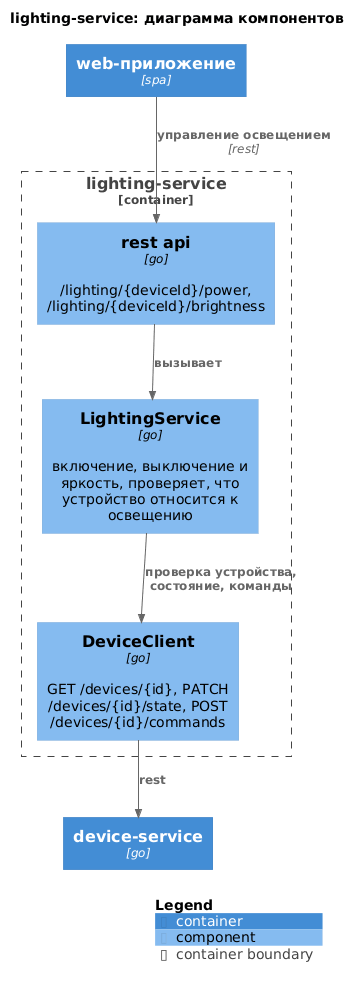
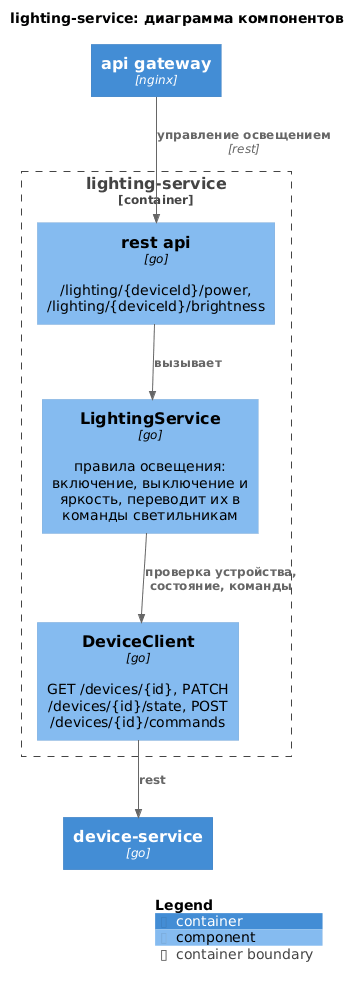
правки

Changed region(s): [[0.1532, 0.4559, 0.6741, 0.5471], [0.1838, 0.0304, 0.7047, 0.1216]]

diff --git a/README.md b/README.md
@@ -27,8 +27,16 @@
 ### 3. Определение доменов и границы контекстов
 
 - as-is: управление отоплением, мониторинг температуры, реестр датчиков, подключение оборудования выполняет специалист вне системы
-- to-be: пользователи и дома (user-service), управление устройствами (device-service), телеметрия (telemetry-service), отопление, освещение, ворота и видеонаблюдение (по сервису на каждый), сценарии автоматизации (в device-service)
-- каждый контекст выделен в микросервис, сценарии живут в device-service рядом с командами устройствам
+- to-be, контексты и их ответственность:
+  - пользователи и дома (user-service): учётные записи, дома, токены
+  - устройства (device-service): реестр, подключение, типы, текущее состояние, команды и пользовательские сценарии, без правил отдельных доменов
+  - интеграция устройств (device-gateway и mqtt): протоколы партнёров, приём телеметрии и состояния, доставка команд
+  - отопление (heating-service): целевая температура и режим, переводит их в команды реле
+  - освещение (lighting-service): включение, выключение, яркость
+  - доступ на участок (gate-service): открыть, закрыть, запереть, отпереть ворота
+  - видеонаблюдение (surveillance-service): просмотр камер
+  - телеметрия (telemetry-service): хранение и выдача истории измерений
+- доменные сервисы решают, что нужно сделать, а device-service знает, какому устройству и как отправить команду
 
 ### **4. Проблемы монолитного решения**
 
@@ -48,16 +56,17 @@
 
 [диаграмма контейнеров](diagrams/container/warmhouse-containers-tobe.png) ([исходник](diagrams/container/warmhouse-containers-tobe.puml))
 
-- сервисы отопления, освещения, ворот и видеонаблюдения управляют устройствами через device-service
-- device-service работает с устройствами партнёров через адаптеры протоколов и публикует телеметрию в брокер сообщений, её сохраняет telemetry-service
-- новый тип датчика добавляется записью в каталог типов устройств, новый протокол партнёра добавляется адаптером
+- наружу открыты только web-приложение и api gateway, gateway проверяет токен в user-service и направляет запросы в сервисы
+- доменные сервисы отправляют команды через device-service, он публикует их в mqtt
+- интеграционный контур: device-gateway переводит протоколы партнёров в единый формат и обменивается событиями с mqtt
+- mqtt единый маршрут событий устройств: телеметрию читают telemetry-service и сценарии в device-service, команды идут в обратную сторону
+- новый тип датчика добавляется записью в каталог типов устройств, новый протокол партнёра добавляется адаптером в device-gateway
 - сценарии хранятся в device-service: обработчик проверяет условия по телеметрии и расписанию и отправляет команды устройствам
-- ворота: открыть, закрыть, запереть и отпереть
-- доступ: запросы идут с токеном пользователя из user-service, device-service проверяет, что устройство из дома пользователя, остальные сервисы проверяют доступ через него
+- доступ к устройствам проверяет device-service по домам пользователя, остальные сервисы проверяют доступ через него
 
 **Диаграмма компонентов (Components)**
 
-[user-service](diagrams/component/user-service.png), [device-service](diagrams/component/device-service.png), [telemetry-service](diagrams/component/telemetry-service.png), [heating-service](diagrams/component/heating-service.png), [lighting-service](diagrams/component/lighting-service.png), [gate-service](diagrams/component/gate-service.png), [surveillance-service](diagrams/component/surveillance-service.png)
+[user-service](diagrams/component/user-service.png), [device-service](diagrams/component/device-service.png), [device-gateway](diagrams/component/device-gateway.png), [telemetry-service](diagrams/component/telemetry-service.png), [heating-service](diagrams/component/heating-service.png), [lighting-service](diagrams/component/lighting-service.png), [gate-service](diagrams/component/gate-service.png), [surveillance-service](diagrams/component/surveillance-service.png)
 
 исходники puml лежат рядом с картинками
 
@@ -68,11 +77,12 @@
 план перехода:
 
 1. контейнеризация монолита
-2. device-service и telemetry-service, монолит берёт температуру из telemetry-service
-3. user-service
-4. heating-service, управление отоплением уходит из монолита
-5. lighting-service, gate-service, surveillance-service
-6. вывод монолита из эксплуатации
+2. api gateway перед монолитом, новые сервисы подключаются к нему по мере готовности
+3. mqtt-брокер, device-gateway и telemetry-service, монолит берёт температуру из telemetry-service
+4. device-service и user-service
+5. heating-service, управление отоплением уходит из монолита
+6. lighting-service, gate-service, surveillance-service
+7. вывод монолита из эксплуатации
 
 # Задание 3. Разработка ER-диаграммы
 
@@ -88,12 +98,12 @@
 ### 1. Тип API
 
 - rest для запросов, где нужен немедленный ответ: подключение устройства, данные, состояние и команды
-- asyncapi для телеметрии: device-service отправляет измерения в брокер и не ждёт ответа
+- asyncapi для телеметрии: device-gateway публикует измерения в mqtt и не ждёт ответа
 
 ### 2. Документация API
 
 - [device-service, openapi](api/device-service.openapi.yaml): подключение устройства, информация об устройстве, обновление состояния, отправка команды
-- [телеметрия, asyncapi](api/telemetry.asyncapi.yaml): уведомление о новом измерении
+- [телеметрия, asyncapi](api/telemetry.asyncapi.yaml): уведомление о новом измерении в mqtt
 
 # Задание 5. Работа с docker и docker-compose
 
